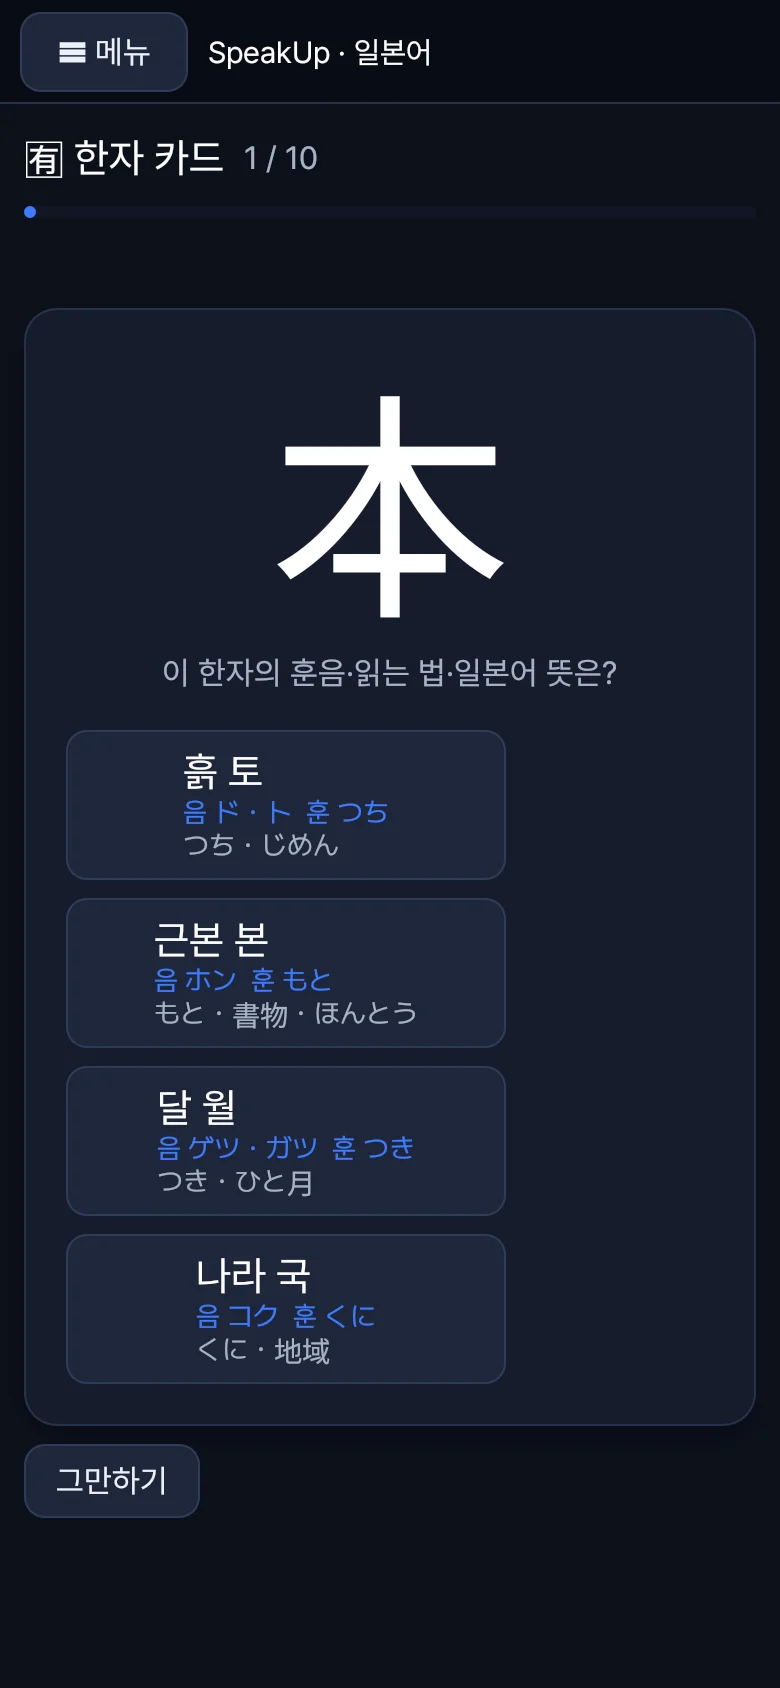
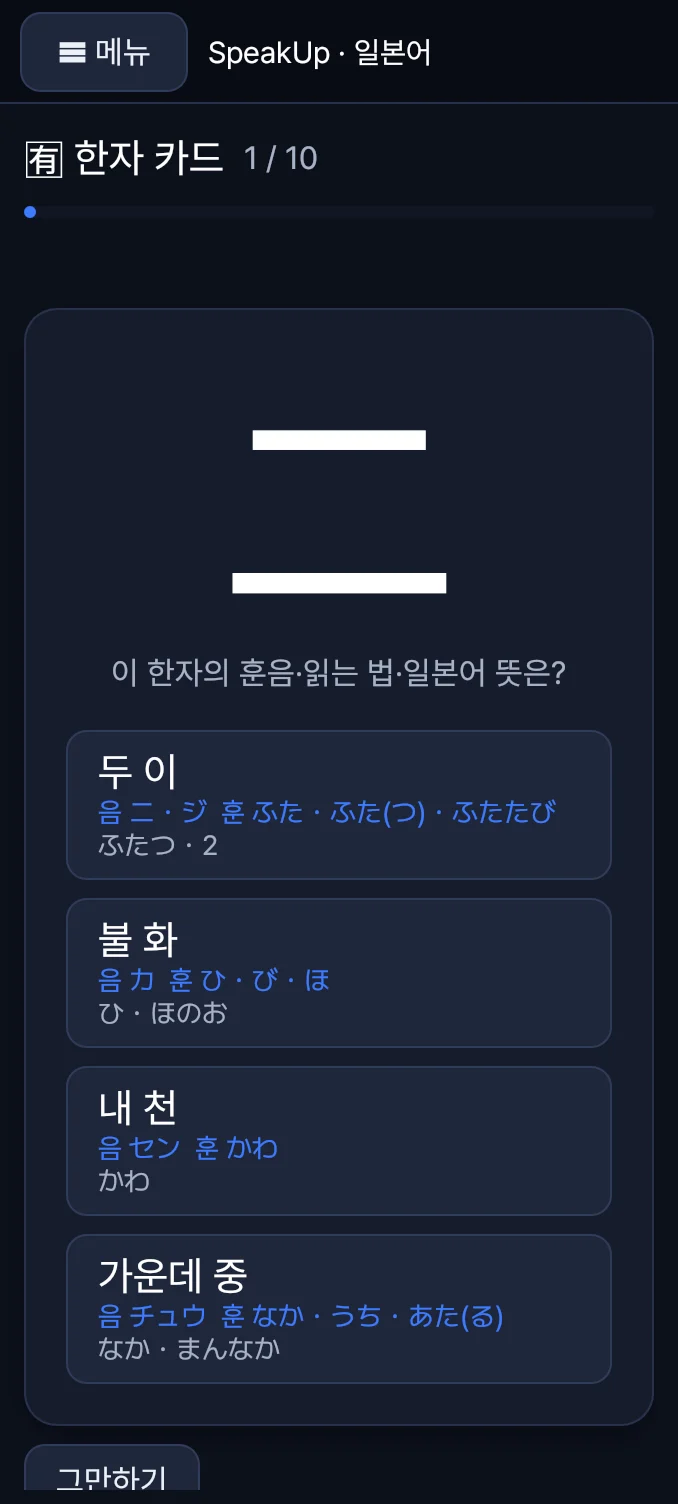
Website: the phone kanji card screenshot with the aligned choices (v2.1.4)

diff --git a/website/index.html b/website/index.html
@@ -131,7 +131,7 @@
             <p>가로로 들면 PC와 같은 배치, 세로로 들면 폰처럼 ☰ 메뉴로 바뀝니다. 소파에서 리딩과 카드 학습에 좋습니다.</p>
           </article>
           <article class="device reveal">
-            <div class="frame frame-phone"><img src="img/ja-phone-kanji.webp" alt="Android 폰의 일본어판 한자 카드" width="780" height="1688" loading="lazy" /></div>
+            <div class="frame frame-phone"><img src="img/ja-phone-kanji.webp" alt="Android 폰의 일본어판 한자 카드" width="678" height="1504" loading="lazy" /></div>
             <p class="device-os">Android 폰</p>
             <h3>폰 앱</h3>
             <p>위쪽 <b>☰ 메뉴</b>로 화면을 고르고, 모든 화면이 폰 폭에 맞춰 접힙니다. 출퇴근길 단어·카드·쉐도잉. Android 9 이상.</p>
